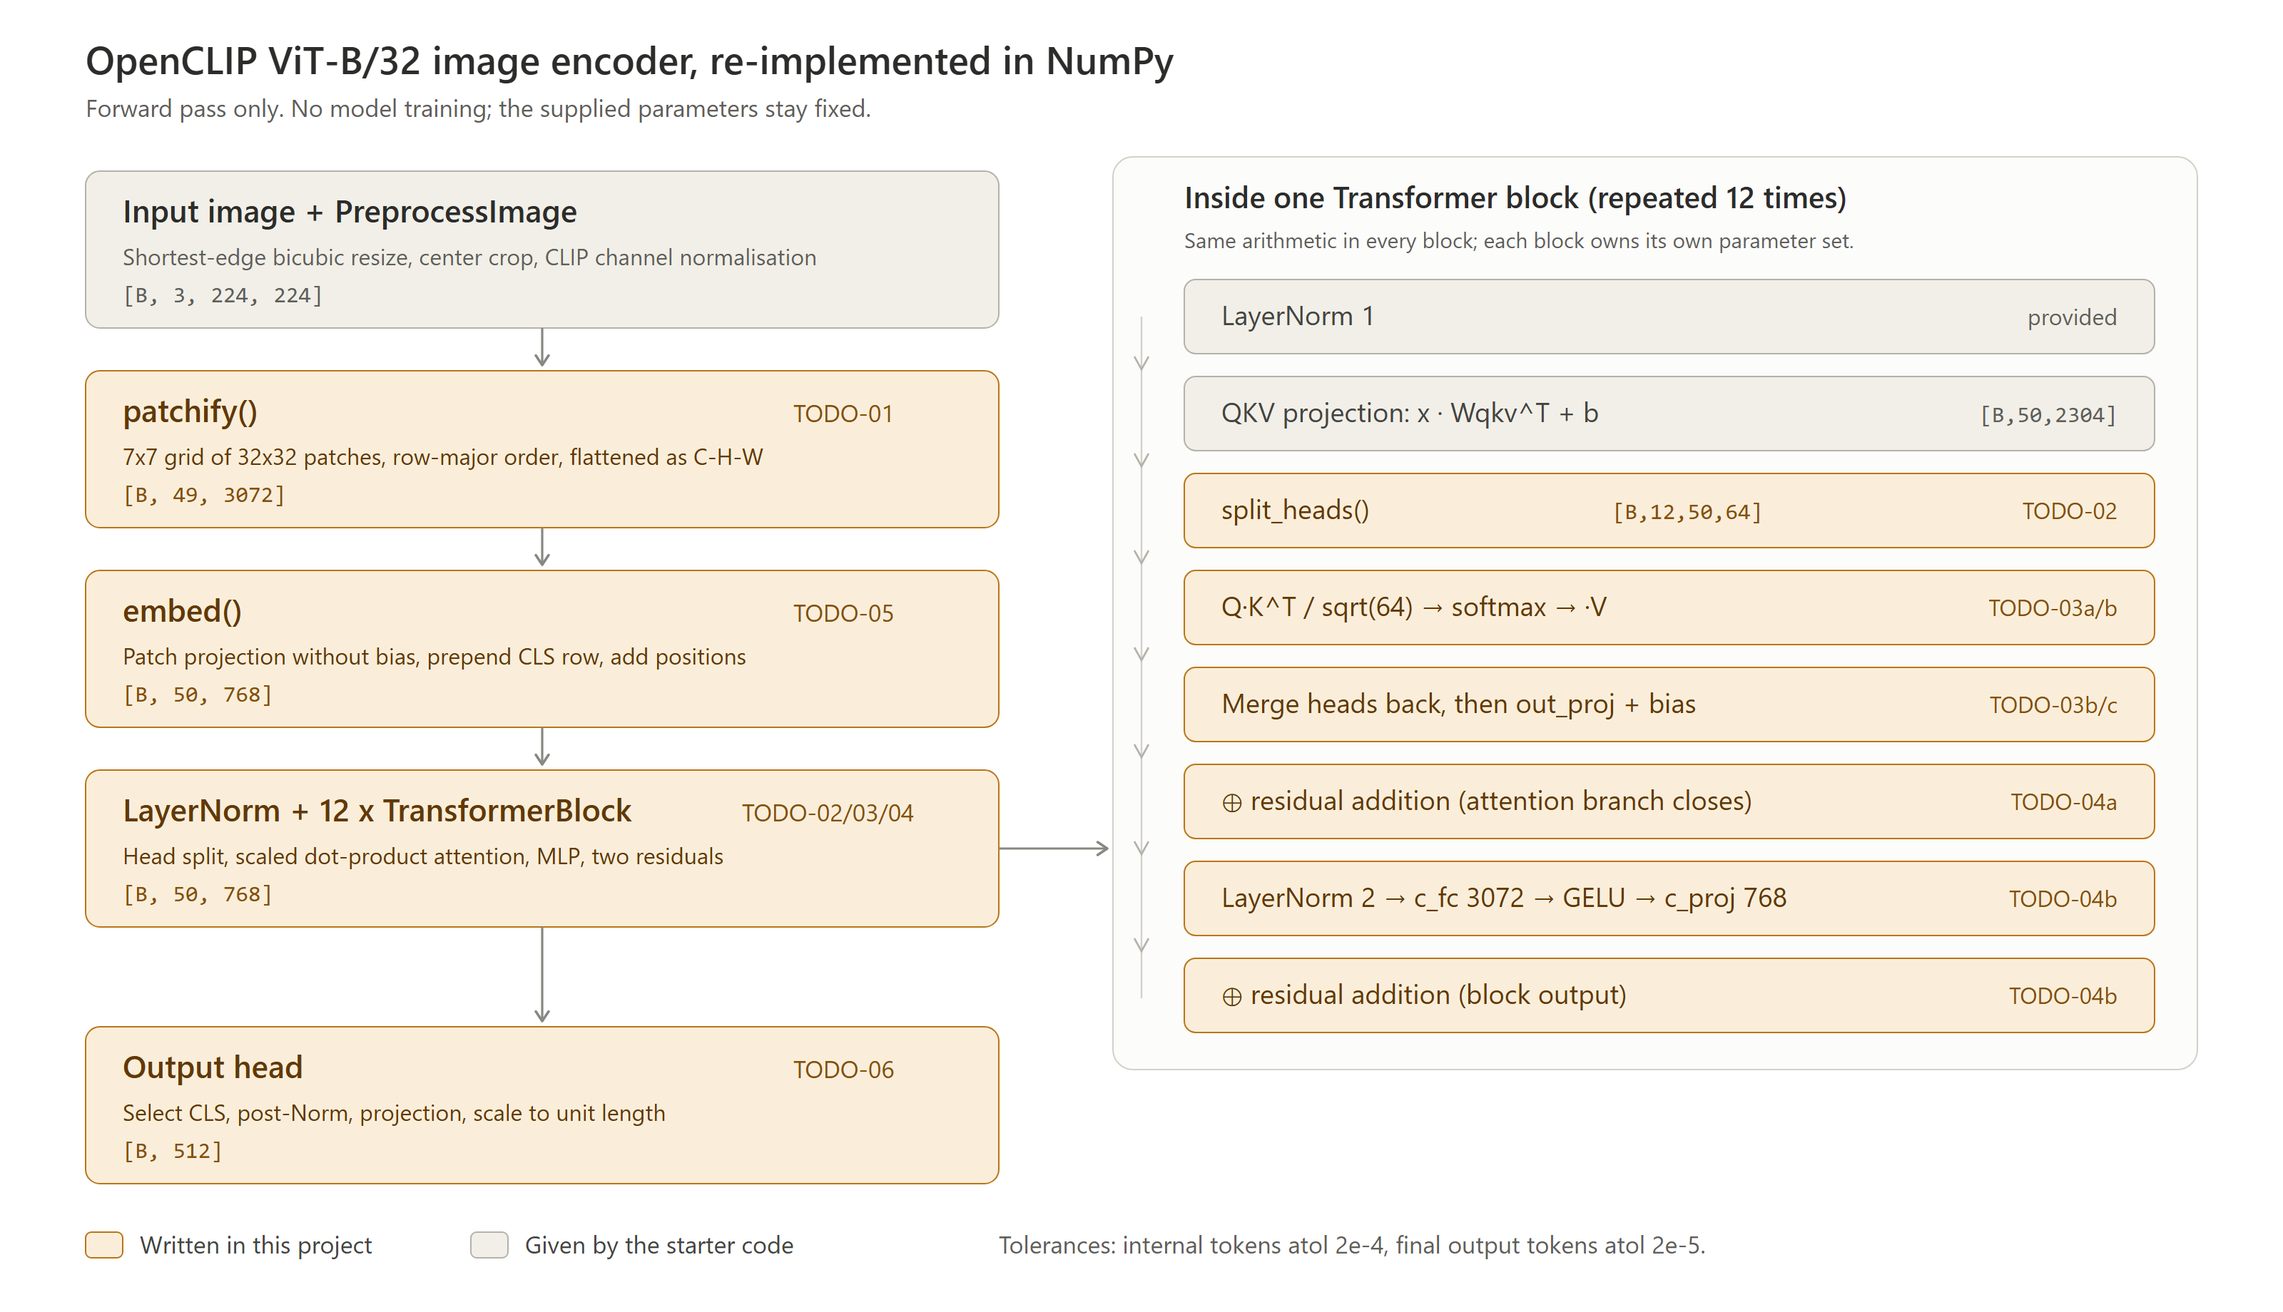
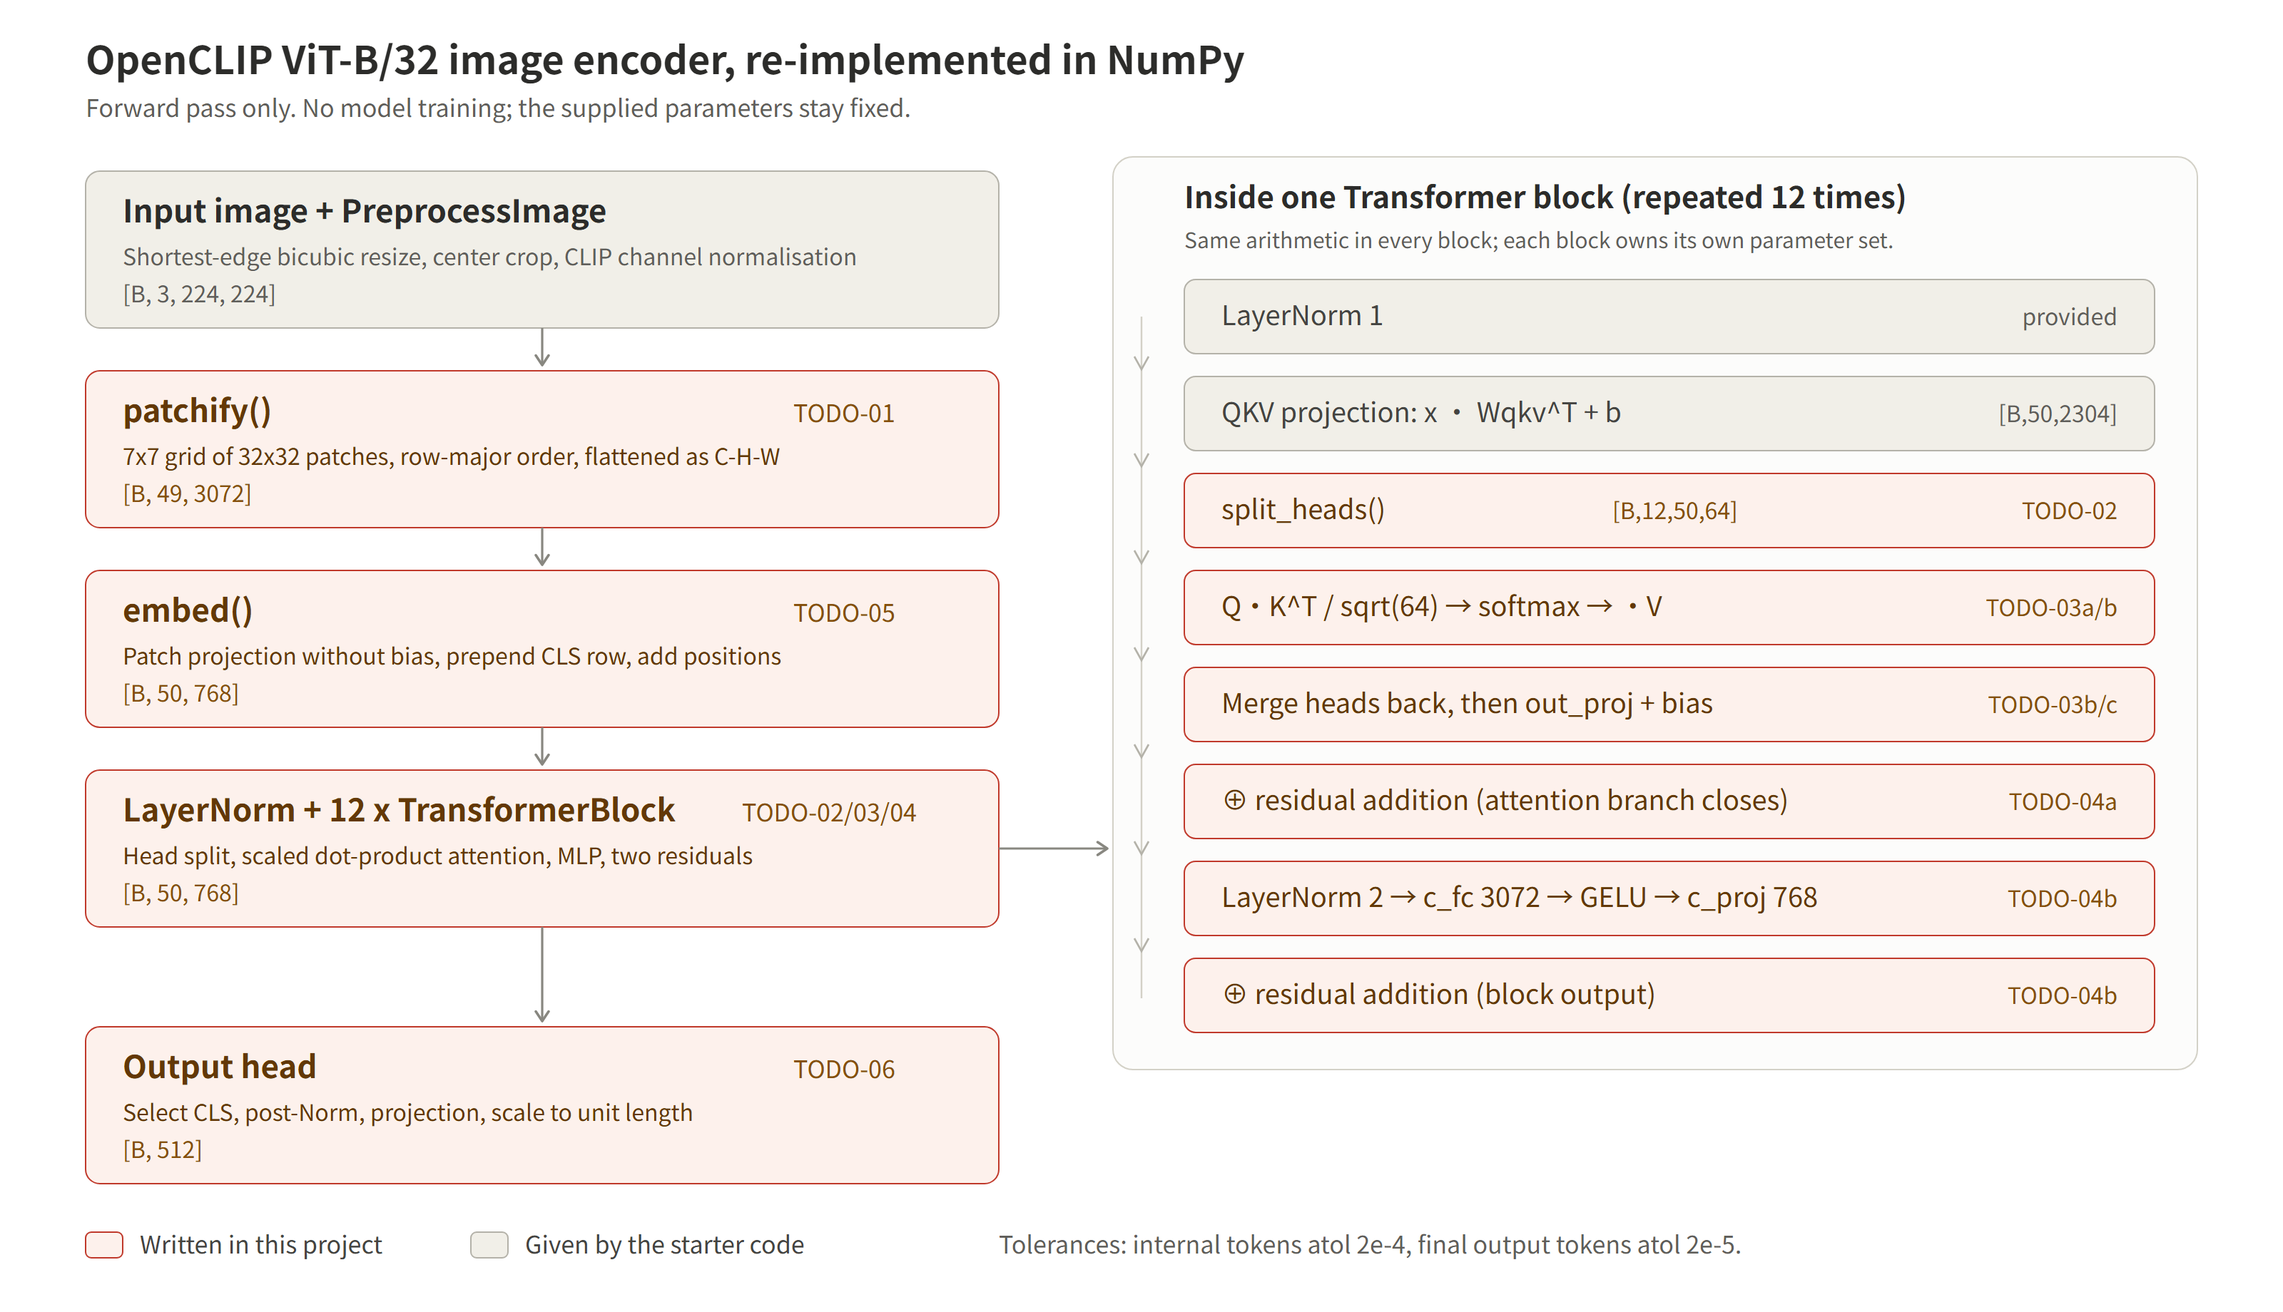
fix: red highlighting in the figure, real versions and timings, label inside the frame

diff --git a/report/main.tex b/report/main.tex
@@ -111,7 +111,7 @@
 \underline{\makebox[8cm][c]{2026.11.17}}}\\[0.5cm]
 {\Large
 \noindent\makebox[3.2cm][l]{\textbf{提交时间}}
-\underline{\makebox[8cm][c]{2026.11}}}\\[1.5cm]
+\underline{\makebox[8cm][c]{2026.11.22}}}\\[1.5cm]
 
     \vfill
     \Large{\textbf{教务处制}}
@@ -132,7 +132,7 @@ given; the encoder has to turn each image into one unit-length
 512-dimensional vector, and the values have to match an FP32 reference
 produced separately by PyTorch.
 
-Three conditions had to be met. The six missing stages are written with array
+Three conditions had to be met. The six TODO groups are written with array
 operations only, with no loop over samples, no framework call and no cached
 reference values. Each stage has to land inside its published tolerance
 ($\mathrm{atol}=2\times10^{-4}$ for internal tokens, $2\times10^{-5}$ for the
@@ -142,7 +142,7 @@ that the file can be dropped next to \texttt{clip.py} without edits.
 
 \section{Overview}
 
-The encoder is a single feed-forward chain: no branches, no training. Figure
+The encoder is a single feed-forward chain: no data-dependent branches and no training. Figure
 \ref{fig:vit-arch} shows the five stages and which of them were written here and
 which came with the starter code.
 
@@ -156,28 +156,30 @@ which came with the starter code.
     residual, Norm, MLP, residual, with shapes unchanged throughout;
     \item[Spot 4]: \textbf{output head} keeps the CLS row, applies the
     post-Norm, projects $768\rightarrow512$ and scales to unit length;
-    \item[Spot 5]: \textbf{staged verification} after each stage instead of
-    only at the end.
+    \item[Spot 5]: \textbf{preprocessing}, supplied: shortest-edge resize,
+    centre crop and CLIP normalisation; every stage is then compared with the
+    reference before the next one starts.
 \end{enumerate}
 
 % Figure
 \begin{figure}[t]
     \centering
-    \includegraphics[width=0.82\linewidth]{figs/vit_overview.png}
+    \includegraphics[width=0.98\linewidth]{figs/vit_overview.png}
     \caption{Left: the five stages of the encoder with the array shape carried
-    between them. Right: the arithmetic inside one Transformer block. Orange
-    blocks are the six tasks written in this project; grey blocks are supplied
-    by the starter code (preprocessing, LayerNorm, exact GELU, the
-    softmax conversion and the unit-length helper).}
+    between them. Right: the arithmetic inside one Transformer block. Red
+    blocks are the parts written for this submission; grey blocks come with the
+    starter code (preprocessing, LayerNorm, exact GELU, the softmax conversion
+    and the unit-length helper).}
     \label{fig:vit-arch}
 \end{figure}
 
 
 \section{Implementations}
 
-The work splits into five parts, each written with indexing,
+The work splits into five parts, written with indexing,
 \texttt{reshape}/\texttt{transpose}, \texttt{@}, reductions and broadcasting,
-and with nothing else.
+plus \texttt{np.concatenate} and \texttt{np.tile} where a new axis has to be
+filled in.
 
 \begin{enumerate}[itemsep=2pt,topsep=3pt,parsep=0pt,leftmargin=2.4em]
     \item[Part 1] \textbf{Patches}: \texttt{patchify} (TODO-01),
@@ -192,16 +194,15 @@ and with nothing else.
     \texttt{ImageEncoder.\_\_call\_\_} (TODO-06), $\rightarrow[B,512]$.
 \end{enumerate}
 
-The six TODO blocks behind these parts are quoted below verbatim from
+The six TODO blocks behind these parts are excerpted below from
 \texttt{image\_encoder.py} and framed in red, in the order the data flows rather
 than the order of the numbers: embed (TODO-05) runs before attention (TODO-02)
 because it creates the tokens attention reads. Each frame carries its TODO
-number, the method it implements, and the shape before and after.
+number, the method it implements, and the shape before and after; the
+\texttt{\# Given:} lines around them stay in the file, and TODO-03 starts at
+\texttt{q/k/v} while TODO-06 starts at \texttt{tokens}.
 
-\noindent{\color{studentred}\textbf{\small TODO-01}\;\textemdash\;
-\texttt{\small patchify}\enspace
-$[B,3,224,224]\rightarrow[B,49,3072]$}\par\vspace{-3pt}
-\begin{lstlisting}
+\begin{lstlisting}[title={\color{studentred}\small \textbf{TODO-01}\;\textemdash\;\texttt{patchify}\enspace $[B,3,224,224]\rightarrow[B,49,3072]$}]
 batch, channels, height, width = images.shape
 patch_tokens = self.position.shape[0] - 1
 grid = int(round(patch_tokens ** 0.5))
@@ -211,28 +212,19 @@ ordered = split.transpose(0, 2, 4, 1, 3, 5)
 return ordered.reshape(batch, grid * grid, channels * patch * patch)
 \end{lstlisting}
 
-\noindent{\color{studentred}\textbf{\small TODO-05}\;\textemdash\;
-\texttt{\small embed}\enspace
-$[B,49,3072]\rightarrow[B,50,768]$}\par\vspace{-3pt}
-\begin{lstlisting}
+\begin{lstlisting}[title={\color{studentred}\small \textbf{TODO-05}\;\textemdash\;\texttt{embed}\enspace $[B,49,3072]\rightarrow[B,50,768]$}]
 projected = patches @ self.patch_weight.T
 tokens = np.concatenate((cls, projected), axis=1)
 return tokens + self.position
 \end{lstlisting}
 
-\noindent{\color{studentred}\textbf{\small TODO-02}\;\textemdash\;
-\texttt{\small split\_heads}\enspace
-$[B,N,768]\rightarrow[B,12,N,64]$}\par\vspace{-3pt}
-\begin{lstlisting}
+\begin{lstlisting}[title={\color{studentred}\small \textbf{TODO-02}\;\textemdash\;\texttt{split\_heads}\enspace $[B,N,768]\rightarrow[B,12,N,64]$}]
 batch, tokens, width = x.shape
 grouped = x.reshape(batch, tokens, self.heads, self.head_dim)
 return grouped.transpose(0, 2, 1, 3)
 \end{lstlisting}
 
-\noindent{\color{studentred}\textbf{\small TODO-03}\;\textemdash\;
-\texttt{\small MultiHeadAttention.\_\_call\_\_}\enspace
-$[B,12,N,64]\rightarrow[B,N,768]$}\par\vspace{-3pt}
-\begin{lstlisting}
+\begin{lstlisting}[title={\color{studentred}\small \textbf{TODO-03}\;\textemdash\;\texttt{MultiHeadAttention.\_\_call\_\_}\enspace $[B,12,N,64]\rightarrow[B,N,768]$}]
 scale = np.float32(np.sqrt(self.head_dim))
 scores = (q @ k.transpose(0, 1, 3, 2)) / scale
 context = coefficients @ v
@@ -241,50 +233,44 @@ merged = context.transpose(0, 2, 1, 3).reshape(
 return merged @ self.out_weight.T + self.out_bias
 \end{lstlisting}
 
-\noindent{\color{studentred}\textbf{\small TODO-04}\;\textemdash\;
-\texttt{\small TransformerBlock.\_\_call\_\_}\enspace
-$[B,N,768]\rightarrow[B,N,768]$}\par\vspace{-3pt}
-\begin{lstlisting}
+\begin{lstlisting}[title={\color{studentred}\small \textbf{TODO-04}\;\textemdash\;\texttt{TransformerBlock.\_\_call\_\_}\enspace $[B,N,768]\rightarrow[B,N,768]$}]
 residual = x + update
 hidden = self.gelu(u @ self.fc1_weight.T + self.fc1_bias)
 mlp_update = hidden @ self.fc2_weight.T + self.fc2_bias
 return residual + mlp_update
 \end{lstlisting}
 
-\noindent{\color{studentred}\textbf{\small TODO-06}\;\textemdash\;
-\texttt{\small ImageEncoder.\_\_call\_\_}\enspace
-$[B,50,768]\rightarrow[B,512]$}\par\vspace{-3pt}
-\begin{lstlisting}
+\begin{lstlisting}[title={\color{studentred}\small \textbf{TODO-06}\;\textemdash\;\texttt{ImageEncoder.\_\_call\_\_}\enspace $[B,50,768]\rightarrow[B,512]$}]
 cls = tokens[:, 0, :]
 normalized = self.post_norm(cls)
 output = normalized @ self.projection
 return unit_vector(output)
 \end{lstlisting}
 
-Three things in these frames are easy to get wrong. In TODO-01 the shape goes
+Two of these frames cost me the most time. In TODO-01 the shape goes
 $[B,3,7,32,7,32] \rightarrow [B,7,7,3,32,32] \rightarrow [B,49,3072]$: the first
 \texttt{reshape} only regroups the axes, the \texttt{transpose} fixes their
 order, and the second \texttt{reshape} merges the two axes the next stage
 consumes. TODO-03 avoids \texttt{.T} because on a four-dimensional array it
-reverses all four axes, so the three axes are named instead. TODO-06 multiplies
-\texttt{visual.proj} without a transpose, since that weight is already
-$[in,out]$. The rest of the file came with the starter code and is left
-unmarked: resizing, the QKV projection, the causal mask, the softmax conversion,
-the LayerNorms, the exact GELU, the twelve-block loop, the weight arrays.
-Figure~\ref{fig:vit-arch} shows the same split in grey.
+reverses all four axes, so the three axes are named instead. TODO-06 is the easy one: \texttt{visual.proj}
+is already $[in,out]$, so it is multiplied as it stands. Everything else in the
+file is scaffolding and stays unmarked: the QKV projection, the causal mask, the
+softmax conversion, the LayerNorms, the exact GELU, the twelve-block loop, the
+weight arrays. Figure~\ref{fig:vit-arch} shows the same split in red and grey.
 
 
 \section{Results}
 
 Table~\ref{tab:errors} compares each stage against the supplied reference. Every
-row passes. The final output token sits two orders of magnitude inside its
+row passes. The final output token sits about 37 times inside its
 tolerance.
 
 \begin{table}[H]
 \centering
 \small
 \caption{Staged numerical agreement with the independent FP32 reference
-(ten supplied images; reordered and duplicated batch for the last row).}
+(ten images for the first and sixth rows, the first two images for the four
+stages in between, a reordered and duplicated batch for the last row).}
 \label{tab:errors}
 \begin{tabular}{llrrrl}
 \hline
@@ -301,22 +287,23 @@ batch order   & (3, 512)           & 4.619e-07 & 7.632e-08 & 2e-05 & PASS \\
 \end{tabular}
 \end{table}
 
-I also ran three cases that \texttt{check.py} does not cover. Tensors from
-\texttt{run.py} come out as $(10,512)$ \texttt{float32}, all finite, and every
-row is unit length in float32. Encoding the lecture cat photograph together with
-a supplied image left that image's own row within $4.40\times10^{-7}$ of its
-reference; a memorised answer would have drifted. Feeding the same image twice
-returns bit-identical rows, since the forward pass is deterministic and does not
-depend on the batch.
+I also ran two checks that \texttt{check.py} does not make. Tensors from
+\texttt{run.py} come out as $(10,512)$ \texttt{float32}, all finite, every row
+unit length to within $1.2\times10^{-7}$. Encoding the lecture cat photograph
+together with a supplied image left that image's own row within
+$5\times10^{-7}$ of its reference; a memorised answer would have drifted. The
+last table row is already an order-and-duplicate test, but it uses
+\texttt{allclose}; feeding the same image twice also gives bit-identical rows.
 
 \vspace{0.2cm}
 \noindent\textbf{Environment and commands.} All numbers in Table~1 come from one
-machine: Windows 11 (x86-64), CPython 3.13.14, NumPy 2.5.4, Pillow 13.0.0, no
+machine: Windows 11 (x86-64), CPython 3.14.7, NumPy 2.5.5, Pillow 12.3.0, no
 GPU. The staged comparison runs as \texttt{python check.py -{}-stage all}; the
 export behind the shape and norm checks is
-\texttt{python run.py -{}-output output\_tokens.npz}. Both read the checkpoint
-from \texttt{weights/} and \texttt{assets/reference\_outputs.npz} only while
-evaluating, so nothing is cached between runs.
+\texttt{python run.py -{}-output output\_tokens.npz}. Both load the checkpoint from
+\texttt{weights/}; only \texttt{check.py} opens
+\texttt{assets/reference\_outputs.npz}, and neither caches anything between
+runs.
 
 
 \section{Discussion}
@@ -332,7 +319,7 @@ the right shape, holding the right values in the wrong places. A shape check
 cannot see that, which is why this stage is compared value by value.
 
 \textbf{One bug fixed.} I copied \texttt{q @ k.T} from the lecture companion,
-which works on a two-token, two-dimensional example. In the real model \texttt{k}
+which works on a three-token, four-feature example. In the real model \texttt{k}
 is $[B,12,50,64]$, so \texttt{.T} reversed all four axes into
 $(64,50,12,B)$, and NumPy raised
 \texttt{ValueError: matmul: Input operand 1 has a mismatch in its core
@@ -343,7 +330,7 @@ that \texttt{.T} stops meaning ``swap the last two axes'' past 2D, so the axes
 have to be written out.
 
 \textbf{Limitations.} The supplied GELU loops over scalar \texttt{math.erf}
-calls, so one forward pass over ten images takes a few seconds. I left it alone,
+calls, so one forward pass over ten images takes about a minute here. I left it alone,
 because rewriting it would change the arithmetic that has to match the
 reference. FP32 accumulation order also differs from PyTorch, which is why the
 internal stages settle around $10^{-5}$ instead of exact zeros. The encoder
@@ -358,14 +345,17 @@ large to hold.
 
 \textbf{Contributions and assistance.} All six TODO groups in
 \texttt{image\_encoder.py} were written for this submission; the scaffolding,
-the checkpoint and the reference arrays are untouched. The six orange blocks in
+the checkpoint and the reference arrays are untouched. The red blocks in
 Figure~\ref{fig:vit-arch} and the six red frames in Section~3 are the only work
-claimed here; everything else in the repository is course material. I used an AI
-assistant while working: it explained how the array shape moves between stages,
-proposed two of the NumPy expressions above, ran \texttt{check.py} while the code
-was being written, and helped with the \LaTeX. I went through every expression
-afterwards and can account for each line, and every number in Section~4 comes
-from \texttt{check.py} on the submitted file.
+claimed here; the rest of \texttt{image\_encoder.py} is scaffolding, and the
+README, this report and \texttt{practice/numpy\_homework.py} are mine. I used an AI
+assistant while working: it explained how the array shape moves between stages, proposed the
+\texttt{transpose(0,2,4,1,3,5)} order in \texttt{patchify} and the
+\texttt{transpose(0,2,1,3).reshape(...)} merge in attention, ran
+\texttt{check.py} while the code was being written, and helped with the
+\LaTeX. I checked both expressions against the reference myself. Table~1 comes
+from \texttt{check.py} on the submitted file; the two extra checks come from
+\texttt{run.py}.
 
 \vspace{0.2cm}
 \noindent{\small Code, commit history and this report's source:

diff --git a/README.md b/README.md
@@ -35,14 +35,14 @@ the solutions to the twelve NumPy exercises in `practice/numpy_homework.py`.
 `PPT-CODE-MAP.txt` and `SOURCE-MANIFEST.json` are course scaffolding notes and
 are kept as supplied.
 
-**Not included, by assignment rule:** `weights/image_encoder.npz` (326 MB, 152
-visual tensors), `assets/reference_outputs.npz`, and the ten course images in
-`assets/images/`. The assignment explicitly asks students not to resubmit the
-large parameter file or the reference data.
+**Not included:** `weights/image_encoder.npz` (326 MB, 152 visual tensors),
+`assets/reference_outputs.npz`, and the ten course images in `assets/images/`.
+The assignment asks students not to resubmit the parameter file or the
+reference data; the images are course material and stay out for the same reason.
 
-Two more files stay out. `report/project1-report.pdf` is the
-compiled report; it is submitted separately, and its cover carries personal
-details, so only the source stays here. `practice/project1_exercises.pdf` is
+Two more files stay out. The compiled report (`project1_report.pdf`) is
+submitted separately and its cover carries personal details, so only the source
+stays here. `practice/project1_exercises.pdf` is
 the course exercise sheet, which is course material rather than student work —
 the solutions written against it are tracked.
 
@@ -101,12 +101,13 @@ python practice/numpy_homework.py
 | output | (10, 512) | 5.439e-07 | 8.311e-08 | 2e-05 | PASS |
 | batch | (3, 512) | 4.619e-07 | 7.632e-08 | 2e-05 | PASS |
 
-All ten output rows have `| ||x|| - 1 | = 0`, and repeating the same image
-twice returns bit-identical rows.
+All ten output rows have `| ||x|| - 1 | <= 1.2e-7` (float32 rounding), and
+repeating the same image twice returns bit-identical rows.
 
 ## What was implemented
 
-`image_encoder.py` only; every other file is supplied.
+`image_encoder.py` only; every other **code** file is supplied. The README, the
+report source and the NumPy exercise file are written by me.
 
 | TODO | Method | Operation |
 | --- | --- | --- |
@@ -135,7 +136,8 @@ twice returns bit-identical rows.
 ## Limitations
 
 - `GELU` is supplied as a scalar `math.erf` loop, so a 10-image forward pass
-  takes a few seconds. Rewriting it would change the arithmetic that has to match
+  takes about 50-80 seconds (four minutes on a cold first run), and
+  `check.py --stage all` takes a few minutes. Rewriting it would change the arithmetic that has to match
   the reference, so it stays as supplied.
 - FP32 accumulation order differs from PyTorch, which is why small errors remain
   instead of exact zeros beyond the preprocessing stage.
